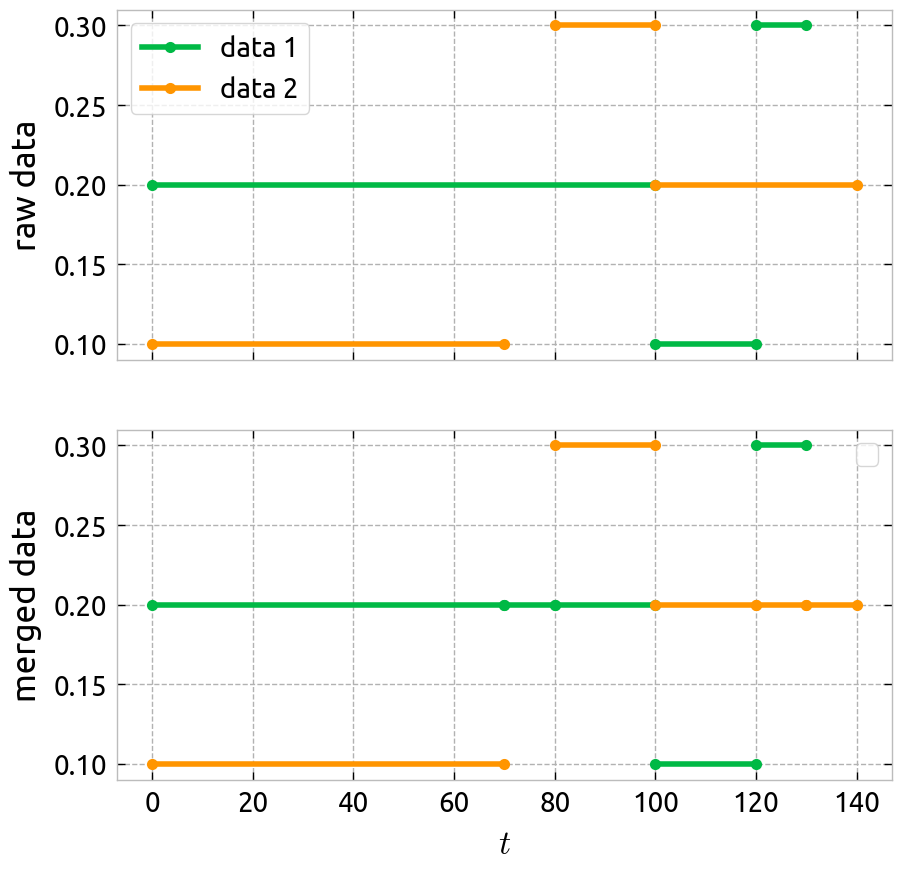
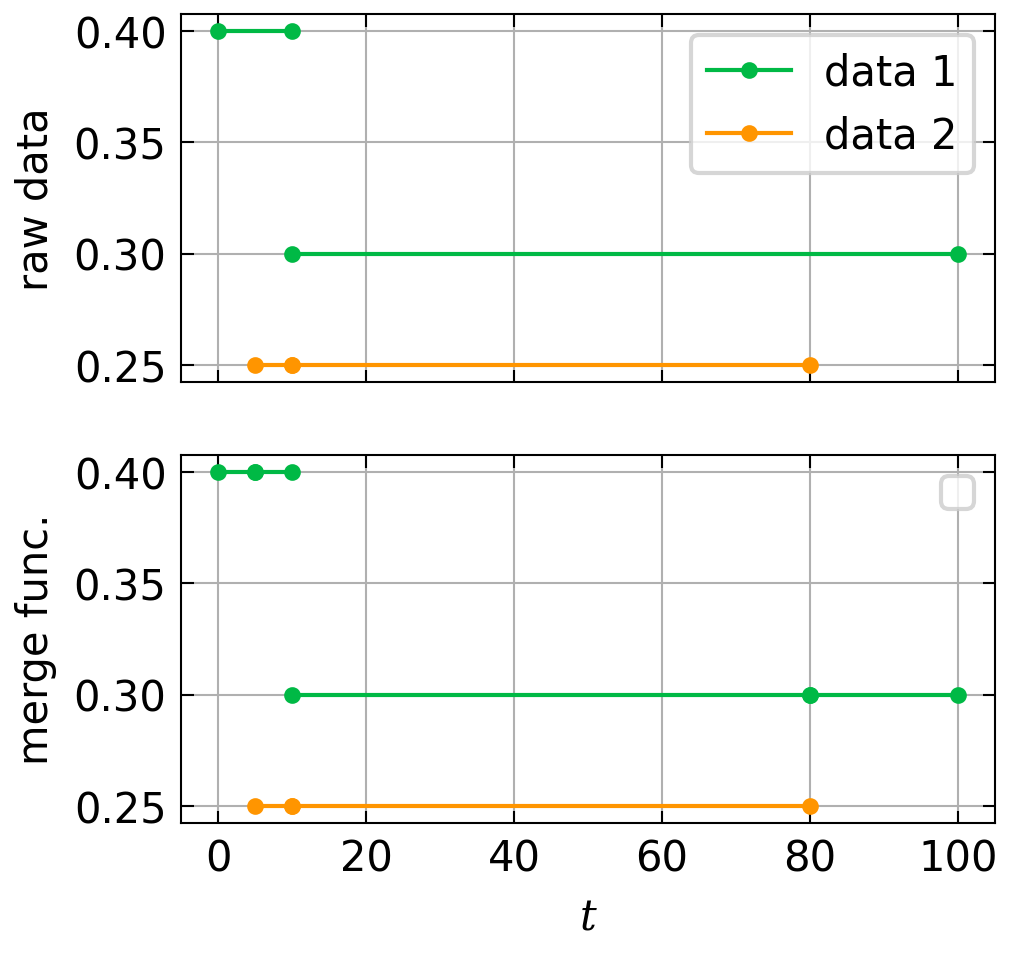
[DEV] update examples

Changed region(s): [[0.0, 0.4655, 0.9945, 0.931], [0.0, 0.0, 0.9945, 0.4034], [0.5594, 0.931, 0.5905, 0.9931]]

diff --git a/examples/illustration.py b/examples/illustration.py
@@ -3,31 +3,15 @@
 # you may not use this file except in compliance with the License.
 # You may obtain a copy of the License at
 #     https://cecill.info/
-import matplotlib
+
 import matplotlib.pyplot as plt
+import numpy as np
 import pandas as pd
-from cycler import cycler
 
-from crep import merge
+from crep import merge, unbalanced_merge, unbalanced_concat, aggregate_constant
+from crep import tools
 
-matplotlib.use("qt5agg")
 plt.style.use('./examples/.matplotlibrc')
-plt.rcParams['figure.figsize'] = [5.0, 5.0]
-plt.rcParams['figure.dpi'] = 200
-n = 8
-default_cycler = cycler('color',
-                        ['#0C5DA5', '#00B945', '#FF9500', '#FF2C00', '#845B97',
-                         '#474747', '#9e9e9e'])
-
-plt.style.use("bmh")
-plt.rcParams["font.family"] = "ubuntu"
-plt.rcParams['axes.facecolor'] = "white"
-plt.rcParams['axes.prop_cycle'] = default_cycler
-
-cmap = plt.get_cmap("rainbow_r")
-prop_cycle = plt.rcParams['axes.prop_cycle']
-colors = prop_cycle.by_key()['color']
-eta_cmap = "rocket_r"
 
 
 def plot(data: pd.DataFrame, continuous_index, data_col, color="C1",
@@ -39,39 +23,128 @@ def plot(data: pd.DataFrame, continuous_index, data_col, color="C1",
                  color=color, label=label)
 
 
-df_left = pd.DataFrame(
-    dict(id=[2, 2, 2],
-         t1=[0, 100, 120],
-         t2=[100, 120, 130],
-         data1=[0.2, 0.1, 0.3])
-)
-df_right = pd.DataFrame(
-    dict(id=[2, 2, 2],
-         t1=[0, 80, 100],
-         t2=[70, 100, 140],
-         data2=[0.1, 0.3, 0.2])
-)
+def illustrate_2_inputs(
+        function: callable,
+        df_left: pd.DataFrame,
+        df_right: pd.DataFrame,
+        parameters: dict,
+        id_discrete,
+        continuous_index,
+        data_columns=None,
 
-ret = merge(data_left=df_left,
-            data_right=df_right,
-            id_continuous=["t1", "t2"],
-            id_discrete=["id"],
-            how="outer")
+):
+    df_left = tools.sort(df_left, id_discrete=id_discrete, id_continuous=continuous_index)
+    df_right = tools.sort(df_right, id_discrete=id_discrete, id_continuous=continuous_index)
+    if data_columns is None:
+        df_left["data left"] = np.array(range(len(df_left))) / len(df_left)
+        df_right["data right"] = np.array(range(len(df_right))) / len(df_right) + 0.5
+        data_columns = ["data left", "data right"]
 
-_, axes = plt.subplots(nrows=2, sharex=True)
+    ret = function(df_left, df_right,
+                   id_continuous=continuous_index,
+                   id_discrete=id_discrete, **parameters)
 
-ret = ret[ret["id"] == 2]
-plt.sca(axes[0])
-plot(df_left, continuous_index=["t1", "t2"], data_col="data1", color="C1",
-     legend='data 1')
-plot(df_right, continuous_index=["t1", "t2"], data_col="data2", color="C2",
-     legend='data 2')
-plt.ylabel("raw data")
-plt.legend()
-plt.sca(axes[1])
-plot(ret, continuous_index=["t1", "t2"], data_col="data1", color="C1")
-plot(ret, continuous_index=["t1", "t2"], data_col="data2", color="C2")
-plt.xlabel("$t$")
-plt.ylabel("merged data")
-plt.legend()
-plt.savefig("examples/basic_example.png")
+    _, axes = plt.subplots(nrows=2, sharex=True)
+
+    sel = ret[id_discrete].drop_duplicates().iloc[-1:]
+    ret = pd.merge(ret, sel, how="right", on=id_discrete)
+    df_left = df_left.merge(sel, how="right", on=id_discrete)
+    df_right = df_right.merge(sel, how="right", on=id_discrete)
+
+    ret = tools.sort(ret, id_discrete=id_discrete, id_continuous=continuous_index)
+    ret[data_columns[0]] = ret[data_columns[0]] + (2 * np.mod(range(len(ret)), 2) - 1) * 0.005
+    ret[data_columns[1]] = ret[data_columns[1]] + (2 * np.mod(range(len(ret)), 2) - 1) * 0.005
+    plt.sca(axes[0])
+    plot(df_left, continuous_index, data_col=data_columns[0], color="C1", legend='data left')
+    plot(df_right, continuous_index, data_col=data_columns[1], color="C2", legend='data right')
+    plt.ylabel("raw data")
+    plt.legend()
+    plt.sca(axes[1])
+    plot(ret, continuous_index, data_col=data_columns[0], color="C1")
+    plot(ret, continuous_index, data_col=data_columns[1], color="C2")
+    plt.xlabel("$t$")
+    plt.ylabel(f"{function.__name__} func.")
+    plt.savefig(f"examples/{function.__name__}.png")
+
+
+def illustrate_1_input(
+        function: callable,
+        df: pd.DataFrame,
+        parameters: dict,
+        id_discrete,
+        continuous_index,
+        data_columns=None,
+
+):
+    df = tools.sort(df, id_discrete=id_discrete, id_continuous=continuous_index)
+    if data_columns is None:
+        df["data"] = np.array(range(len(df))) / len(df)
+        data_columns = ["data"]
+
+    ret = function(df,
+                   id_continuous=continuous_index,
+                   id_discrete=id_discrete, **parameters)
+
+    _, axes = plt.subplots(nrows=2, sharex=True)
+
+    sel = ret[id_discrete].drop_duplicates().iloc[-1:]
+    ret = pd.merge(ret, sel, how="right", on=id_discrete)
+    df = pd.merge(df, sel, how="right", on=id_discrete)
+
+    ret = tools.sort(ret, id_discrete=id_discrete, id_continuous=continuous_index)
+    ret[data_columns[0]] = ret[data_columns[0]] + (2 * np.mod(range(len(ret)), 2) - 1) * 0.005
+    plt.sca(axes[0])
+    plot(df, continuous_index, data_col=data_columns[0], color="C1", legend='data input')
+    plt.ylabel("raw data")
+    plt.legend()
+    plt.sca(axes[1])
+    plot(ret, continuous_index, data_col=data_columns[0], color="C1")
+    plt.xlabel("$t$")
+    plt.ylabel(f"{function.__name__} func.")
+    plt.savefig(f"examples/{function.__name__}.png")
+
+
+plt.ioff()
+illustrate_2_inputs(merge,
+                    pd.read_csv("data/base_left.csv"),
+                    pd.read_csv("data/base_right.csv"),
+                    dict(how="outer", ),
+                    id_discrete=["id"],
+                    continuous_index=["t1", "t2"]
+                    )
+illustrate_2_inputs(unbalanced_merge,
+                    pd.read_csv("data/base_left.csv"),
+                    pd.read_csv("data/base_right.csv"),
+                    dict(),
+                    id_discrete=["id"],
+                    continuous_index=["t1", "t2"]
+                    )
+illustrate_2_inputs(unbalanced_concat,
+                    pd.read_csv("data/base_left.csv"),
+                    pd.read_csv("data/base_right.csv"),
+                    dict(),
+                    id_discrete=["id"],
+                    continuous_index=["t1", "t2"]
+                    )
+
+illustrate_1_input(tools.build_admissible_data,
+                   pd.read_csv("data/base_left.csv"),
+                   dict(),
+                   id_discrete=["id"],
+                   continuous_index=["t1", "t2"]
+                   )
+
+illustrate_1_input(tools.build_admissible_data,
+                   pd.read_csv("data/base_left.csv"),
+                   dict(),
+                   id_discrete=["id"],
+                   continuous_index=["t1", "t2"]
+                   )
+
+illustrate_1_input(function=aggregate_constant,
+                   df=pd.read_csv("data/advanced_left.csv"),
+                   parameters=dict(),
+                   id_discrete=["id", "id2"],
+                   continuous_index=["t1", "t2"],
+                   data_columns=["data1"]
+                   )

diff --git a/crep/tools.py b/crep/tools.py
@@ -3,11 +3,11 @@
 # you may not use this file except in compliance with the License.
 # You may obtain a copy of the License at
 #     https://cecill.info/
+import warnings
+from typing import Any, Iterable, Literal
+
 import numpy as np
 import pandas as pd
-import warnings
-
-from typing import Any, Iterable, Literal
 
 
 def build_admissible_data(
@@ -117,7 +117,7 @@ def create_zones(
     df_out.loc[df_out.index[1:], "__id2_prev__"] = df_out.loc[df_out.index[:-1], id_continuous[1]].values
     c_inner = df_out[id_continuous[0]] >= df_out["__id2_prev__"]
 
-    c_disc = df_out[id_discrete].iloc[1:].values == df_out[id_discrete].iloc[:-1].values
+    c_disc = np.array(df_out[id_discrete].iloc[1:].values == df_out[id_discrete].iloc[:-1].values)
     c_disc = c_disc.mean(axis=1) == 1
     c_disc = ~ np.concatenate(([True], c_disc))
 
@@ -287,6 +287,7 @@ def cumul_segment_length(
         id_continuous: [Any, Any]
 ) -> pd.Series:
     """
+    TODO : compute_cumulated_length
     Computes cumulative sum of segment length for each unique combination of id_discrete.
 
     Parameters
@@ -499,6 +500,7 @@ def clusterize(
         target_size: int,
 ) -> pd.Series:
     """
+    TODO: create_cluster_by_size
     Defines where to limit segment aggregation when uniformizing segment size to target size.
 
     Parameters
@@ -611,3 +613,7 @@ def fill_duplicates_na(df, id_discrete: list[Any], id_continuous: [Any, Any]):
 
     df = df.drop("__zone__", axis=1)
     return df
+
+
+def sort(df: pd.DataFrame, id_discrete: list[Any], id_continuous: [Any, Any]) -> pd.DataFrame:
+    return df.sort_values(by=[*id_discrete, *id_continuous])

diff --git a/test/conftest.py b/test/conftest.py
@@ -9,34 +9,13 @@ from pytest import fixture
 
 @fixture(scope="module")
 def get_examples():
-    df_left = pd.DataFrame(
-        dict(id=[1, 1, 2, 2, 2],
-             t1=[0, 10, 0, 100, 120],
-             t2=[10, 100, 90, 110, 130],
-             data1=[0.2, 0.2, 0.1, 0.3, 0.2])
-    )
-    df_right = pd.DataFrame(
-        dict(id=[1, 1, 2, 2, 2],
-             t1=[5, 10, 0, 100, 120],
-             t2=[10, 80, 90, 110, 130],
-             data2=[0.2, 0.2, 0.1, 0.3, 0.2])
-    )
+    df_left = pd.read_csv("data/base_left.csv")
+    df_right = pd.read_csv("data/base_right.csv")
     return df_left, df_right
 
 
 @fixture(scope="module")
 def get_advanced_examples():
-    df_left = pd.DataFrame(
-        dict(id=[1, 1, 2, 2, 2],
-             id2=["a", "b", "b", "b", "b"],
-             t1=[0, 10, 0, 100, 120],
-             t2=[10, 100, 90, 110, 130],
-             data1=[0.2, 0.2, 0.1, 0.3, 0.2])
-    )
-    df_right = pd.DataFrame(
-        dict(id=[1, 2, 2, 2, 2, 3, 3, 3],
-             t1=[5, 10, 0, 100, 120, 10, 20, 30],
-             t2=[10, 80, 90, 110, 130, 30, 25, 35],
-             data2=[0.2, 0.2, 0.1, 0.3, 0.2, 0.3, 0.2, 0.1])
-    )
+    df_left = pd.read_csv("data/advanced_left.csv")
+    df_right = pd.read_csv("data/advanced_right.csv")
     return df_left, df_right
